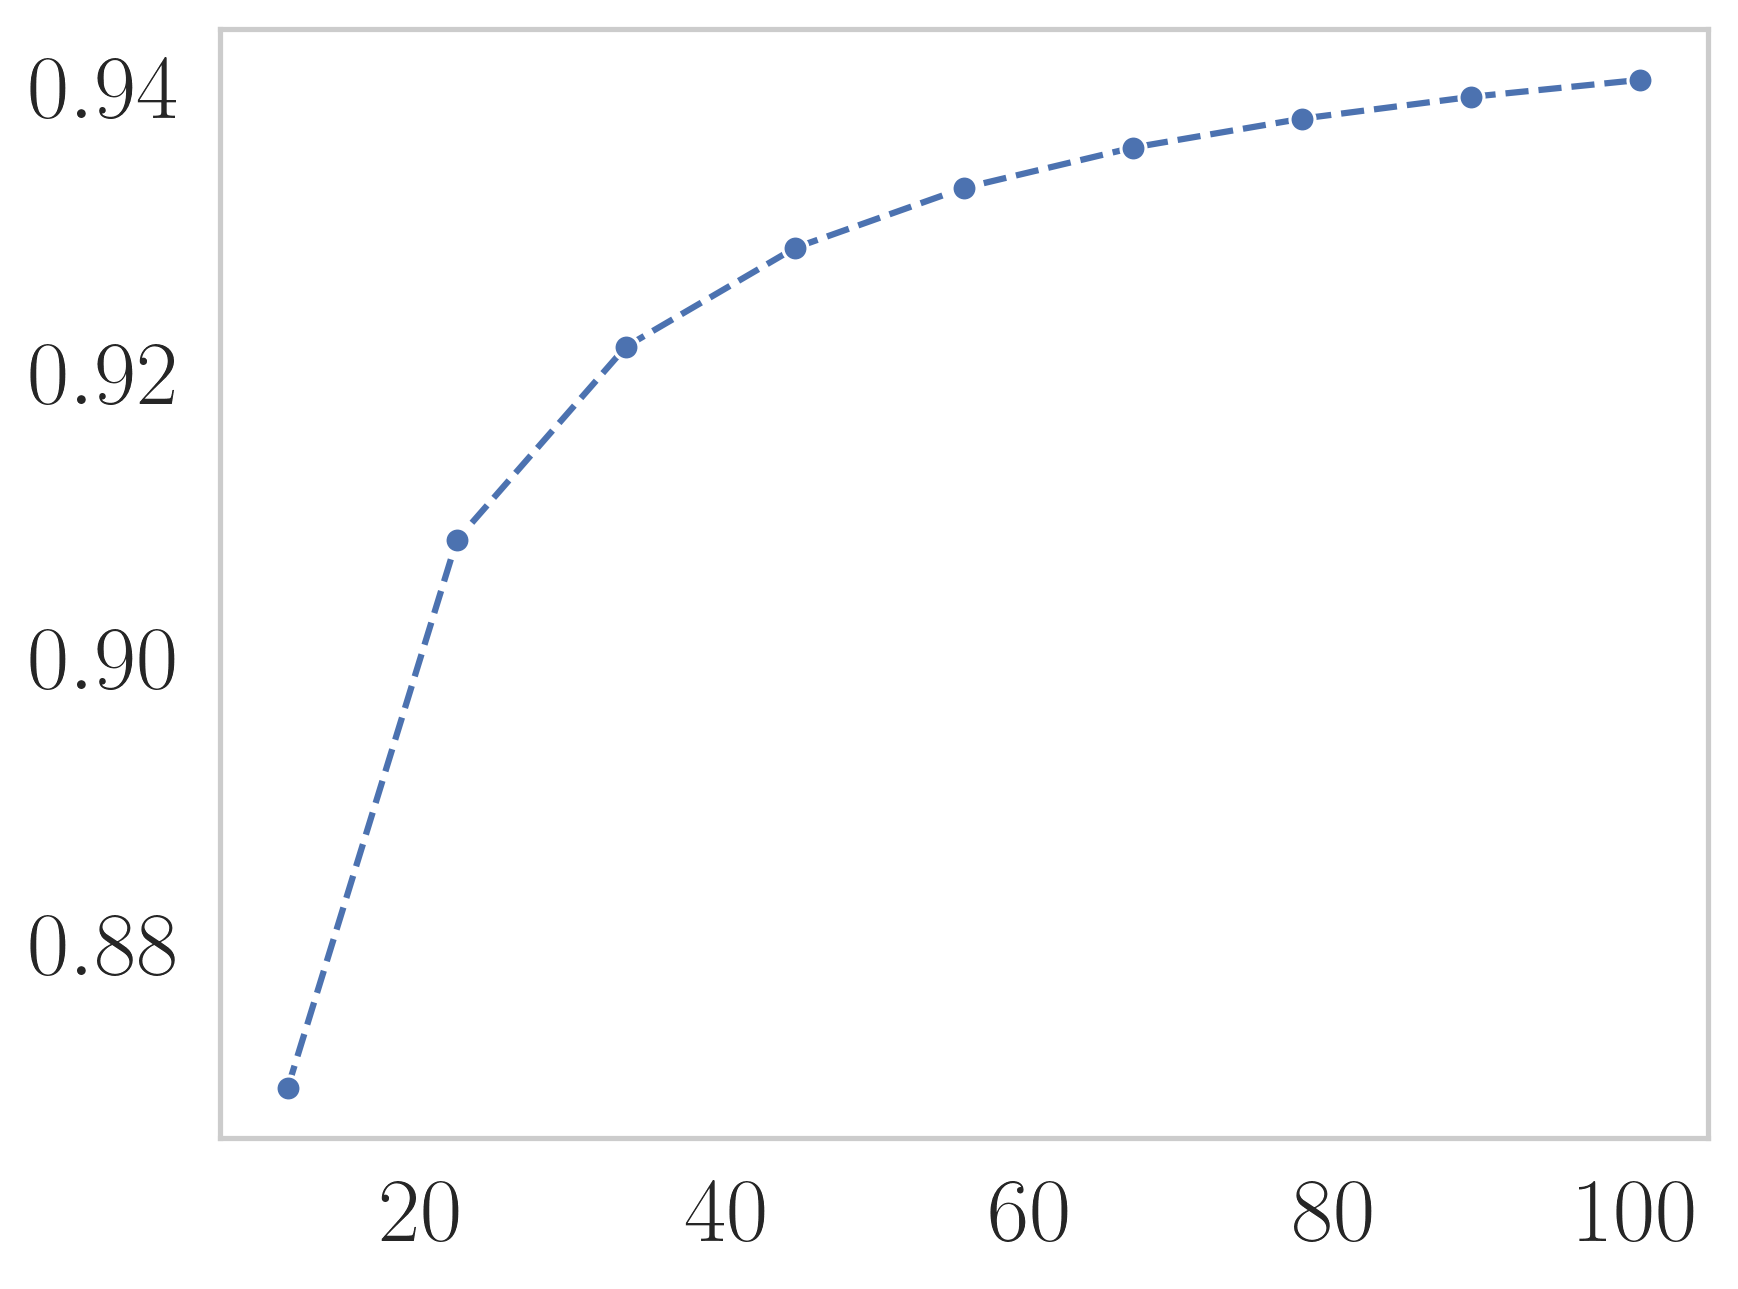
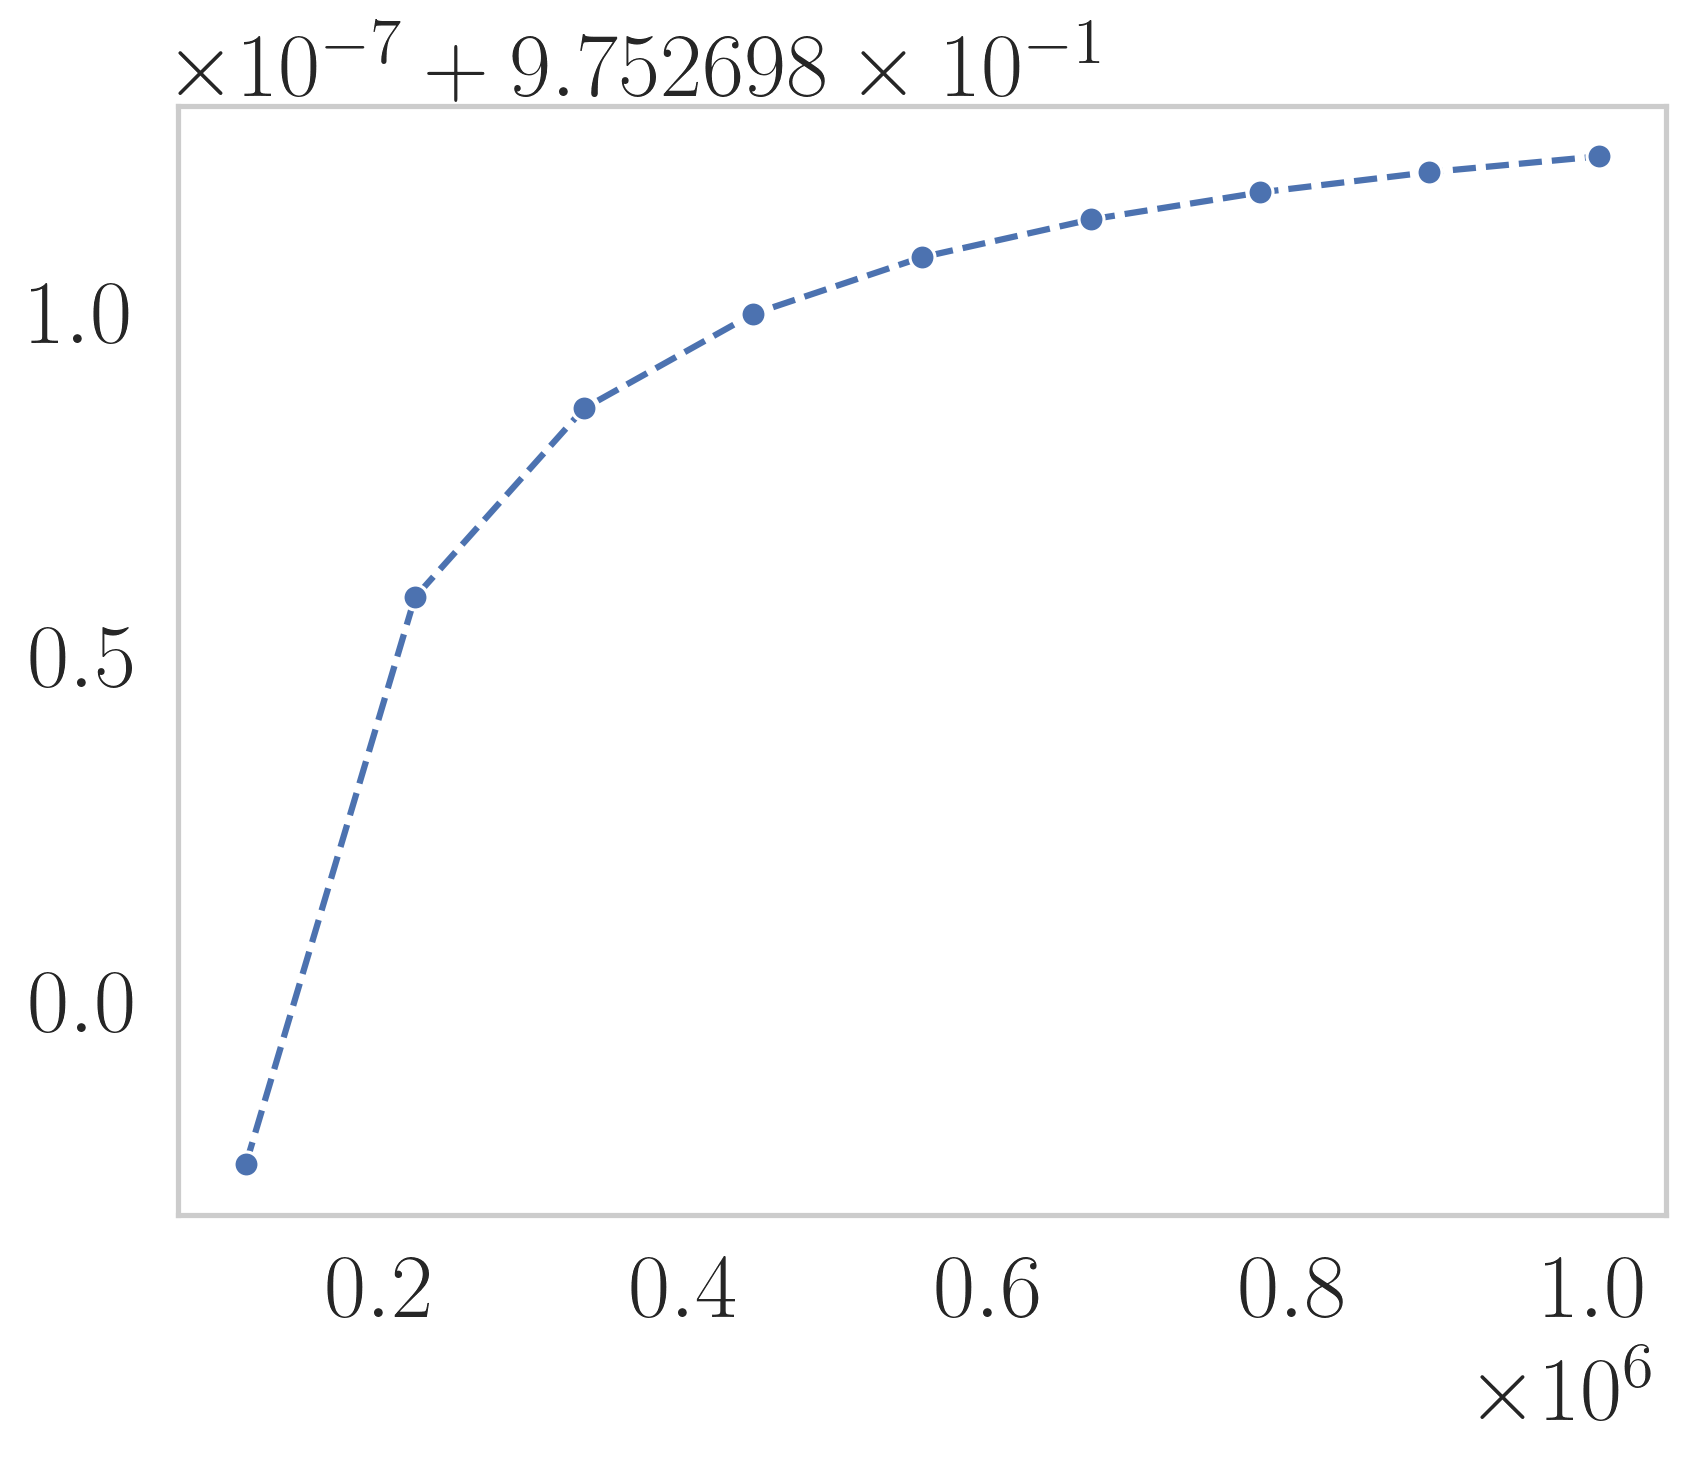
pepa

diff --git a/last_vertex.py b/last_vertex.py
@@ -514,16 +514,21 @@ from tqdm import tqdm
 def main():
   setup()
   SLACK = 1e-6
-  N1 = 2
+  # N1 = 
+  # N2 = 5
+  N = 10
   N2 = 2
+  N1 = N-N2
+  print(N)
   mu12 = 1
   mu21 = 0
   rho1 = 1
   rho2 = 1
-  R = 20
+  R = 10
   data = []
-  for mu12 in np.linspace(0, 100, 10, endpoint=True)[1:]:
+  for mu12 in np.linspace(0, 1e6, 10, endpoint=True)[1:]:
     fix, ext = solve_islands(N1, N2, mu12=mu12, mu21=mu21, rho1=rho1, rho2=rho2, r=R, slack=SLACK) # solve_directed(N, r=R, slack=SLACK)
+    print(mu12, fix[0])
     data.append((mu12, fix[0]))
 
   df = pd.DataFrame(columns=["mu12", "p0"], data=data)
@@ -699,6 +704,7 @@ def fix_and_ext_islands(A, x, N1, N2, slack, idx, ridx):
       fix[last] /= totalf
 
   # print(k)
+  print(fix, ext)
   return fix, ext
 
 def fix_and_ext(A, x, N, slack, idx, ridx):
@@ -863,7 +869,12 @@ def LV(i, r, N):
 
 
 if __name__ == '__main__':
-  main()
+  # main()
+  N = 5
+  fix, ext = solve_directed(N, r=1, slack=1e-6)
+  print(f"{N=}")
+  for i, p in fix.items():
+    print(f"{i} --> {p}")
 
 """
   N = 3

diff --git a/stationary.py b/stationary.py
@@ -1,0 +1,41 @@
+import numpy as np
+from collections import defaultdict
+
+STEPS = 1_000_000
+
+np.set_printoptions(suppress=True)
+
+def solve(a: int, b: int, r: float):
+  transitions = defaultdict(dict)
+
+  for i in range(b+1):
+    w = (a-1+i)*r + (b-i+1)
+    if i+1 <= b:
+      transitions[i][i+1] = ((a-1+i)*r)/w * (b-i)/b
+    if i-1 >= 0:
+      transitions[i][i-1] = (b-i+1)/w * i/b
+
+  for i, t in transitions.items():
+    t[i] = 1-sum(t.values())
+
+  A = np.array([[
+    transitions[i].get(j, 0)
+    for j in range(b+1)
+  ] for i in range(b+1)])
+
+  x = np.zeros(shape=(b+1,))
+  x[0] = 1
+  b = x@np.linalg.matrix_power(A, STEPS)
+  return b
+
+def main():
+  r = .51
+  """r>1/2"""
+  xs = list(range(1, 10000, 1000))
+  for a in xs:
+    b = a
+    # print(f"{a=}, {b=}, {r=}")
+    print(solve(a=a, b=b, r=r)[-1], f"conjecture={1-1/(2*r)}")
+
+if __name__ == '__main__':
+  main()
